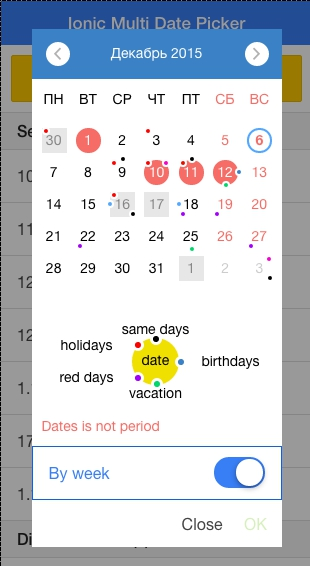
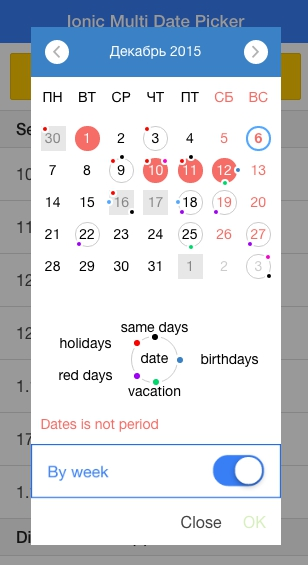
v1.2.6

diff --git a/dist/ionic-multi-date-picker.bundle.min.js b/dist/ionic-multi-date-picker.bundle.min.js
@@ -12,7 +12,7 @@
             styleEl.innerText = cssText;
         }
     }
-}(document, ".cal-color-red:before{background-color:#f66d67}.cal-color-yellow:before{background-color:#f6e800}.cal-color-orange:before{background-color:#f68200}.cal-color-violet:before{background-color:#f600c7}.cal-color-saha:before{background-color:#9f00f6}.cal-color-coral:before{background-color:#ff8579}.cal-color-blue:before{background-color:#3a81c5}.cal-color-skyey:before{background-color:#53a7ff}.cal-color-green:before{background-color:#9bd659}.cal-color-ggreen:before{background-color:#00d66c}.cal-color-holiday:before{background-color:red}.cal-color-black:before{background-color:#000}.picker-body{height:inherit}.picker-body .popup-head{padding:0;border:0}.picker-body .popup-body{overflow:inherit!important;padding:0}.cal-green{color:#9bd659!important}.cal-green-bg{background-color:#9bd659;z-index:-2}.ionic-datepicker{background-color:#fff}.ionic-datepicker .no-padding{padding:0}.ionic-datepicker .clear{clear:both}.ionic-datepicker .title{color:#3a81c5}.ionic-datepicker .title h3{font-size:2em;text-align:center!important;margin:0;padding:10px;width:100%}.ionic-datepicker .title div{font-size:21px;text-align:center!important;margin:0;padding:5px;width:100%}.ionic-datepicker .navigator{background-color:#3a81c5;min-height:50px}.ionic-datepicker .icon-chevron{position:relative}.ionic-datepicker .icon-chevron:before{background-color:#fff;width:24px;height:24px;border-radius:50%;padding:5px 3px;position:absolute;top:-7px;z-index:1}.ionic-datepicker .icon-chevron-left:before{left:2px}.ionic-datepicker .icon-chevron-right:before{left:-25px}.ionic-datepicker .month-year-selector{position:fixed;right:60px;top:0;left:60px;background-color:transparent;color:transparent;border-width:0;max-width:40%}.ionic-datepicker .month-year-selector input{color:transparent}.ionic-datepicker .calendar-grid{margin:0 auto;max-width:260px}.ionic-datepicker .week-days{text-transform:uppercase;text-align:center}.ionic-datepicker .weekend{color:#f66d67}.ionic-datepicker .calendar-1,.ionic-datepicker .calendar-2,.ionic-datepicker .calendar-3,.ionic-datepicker .calendar-4,.ionic-datepicker .calendar-5,.ionic-datepicker .calendar-6,.ionic-datepicker .calendar-7,.ionic-datepicker .holidays{position:absolute;top:0;left:0;color:transparent}.ionic-datepicker .calendar-1:before,.ionic-datepicker .calendar-2:before,.ionic-datepicker .calendar-3:before,.ionic-datepicker .calendar-4:before,.ionic-datepicker .calendar-5:before,.ionic-datepicker .calendar-6:before,.ionic-datepicker .calendar-7:before,.ionic-datepicker .holidays:before{position:absolute;content:'';z-index:0;width:8px;height:8px;border:2px solid #fff;border-radius:50%}.ionic-datepicker .holidays:before{top:3px;left:5px}.ionic-datepicker .calendar-1:before{top:-1px;left:14px}.ionic-datepicker .calendar-2:before{top:3px;left:23px}.ionic-datepicker .calendar-3:before{top:12px;left:27px}.ionic-datepicker .calendar-4:before{top:22px;left:24px}.ionic-datepicker .calendar-5:before{top:25px;left:14px}.ionic-datepicker .calendar-6:before{top:22px;left:5px}.ionic-datepicker .calendar-7:before{top:12px;left:1px}.ionic-datepicker .disabledDate{color:#868686!important}.ionic-datepicker .disabledDate:after{position:absolute;content:'';top:4px;left:5px;z-index:-1;width:25px;height:25px;background-color:#e7e7e7}.ionic-datepicker .not-cur-month{color:#ccc}.ionic-datepicker .today{font-weight:bolder}.ionic-datepicker .today:after{content:'';position:absolute;top:4px;left:5px;z-index:-1;width:25px;height:25px;border-radius:50%;border:2px solid #53a7ff}.ionic-datepicker .selected,.ionic-datepicker .selected-light{color:#fff!important}.ionic-datepicker .selected-light:after,.ionic-datepicker .selected:after{content:'';position:absolute;top:4px;left:5px;z-index:-1;width:25px;height:25px;border-radius:50%}.ionic-datepicker .selected:after{background-color:#f66d67}.ionic-datepicker .selected-light:after{background-color:#ff8579}.ionic-datepicker .date-grid{height:200px}.ionic-datepicker .date-grid .date-row{text-align:center}.ionic-datepicker .date-grid .date-row .date-col{position:relative;z-index:1;width:44px}.ionic-datepicker .date-grid .date-row .date-col:active,.ionic-datepicker .date-grid .date-row .date-col:hover{cursor:pointer}.ionic-datepicker .date-grid .date-row .date-col .date-cell{padding:5px;margin:1px}.ionic-datepicker .calendar-names{position:relative;max-width:260px;height:87px;margin:0 auto}.ionic-datepicker .calendar-names .calendars-point{position:absolute;left:110px;top:31px;z-index:1}.ionic-datepicker .calendar-names .calendars-point:before{position:absolute;content:'';left:-10px;top:-12px;width:47px;height:47px;background-color:#f0e000;border-radius:50%;z-index:-1}.ionic-datepicker .calendar-names .calendar-1-name,.ionic-datepicker .calendar-names .calendar-2-name,.ionic-datepicker .calendar-names .calendar-3-name,.ionic-datepicker .calendar-names .calendar-4-name,.ionic-datepicker .calendar-names .calendar-5-name,.ionic-datepicker .calendar-names .calendar-6-name,.ionic-datepicker .calendar-names .calendar-7-name,.ionic-datepicker .calendar-names .holiday-name{position:absolute;width:40%;text-align:center}.ionic-datepicker .calendar-names .holiday-name{top:16px;left:5px}.ionic-datepicker .calendar-names .calendar-1-name{top:0;left:74px}.ionic-datepicker .calendar-names .calendar-2-name{top:16px;left:144px}.ionic-datepicker .calendar-names .calendar-3-name{top:32px;left:149px}.ionic-datepicker .calendar-names .calendar-4-name{top:48px;left:144px}.ionic-datepicker .calendar-names .calendar-5-name{top:64px;left:74px}.ionic-datepicker .calendar-names .calendar-6-name{top:48px;left:5px}.ionic-datepicker .calendar-names .calendar-7-name{top:32px;left:0}.ionic-datepicker .calendar-names .calendar-1-point,.ionic-datepicker .calendar-names .calendar-2-point,.ionic-datepicker .calendar-names .calendar-3-point,.ionic-datepicker .calendar-names .calendar-4-point,.ionic-datepicker .calendar-names .calendar-5-point,.ionic-datepicker .calendar-names .calendar-6-point,.ionic-datepicker .calendar-names .calendar-7-point,.ionic-datepicker .calendar-names .holiday-point{position:absolute;color:transparent}.ionic-datepicker .calendar-names .calendar-1-point:before,.ionic-datepicker .calendar-names .calendar-2-point:before,.ionic-datepicker .calendar-names .calendar-3-point:before,.ionic-datepicker .calendar-names .calendar-4-point:before,.ionic-datepicker .calendar-names .calendar-5-point:before,.ionic-datepicker .calendar-names .calendar-6-point:before,.ionic-datepicker .calendar-names .calendar-7-point:before,.ionic-datepicker .calendar-names .holiday-point:before{position:absolute;content:'';width:12px;height:12px;border:3px solid #fff;border-radius:50%;z-index:2}.ionic-datepicker .calendar-names .holiday-point{top:20px;left:100px}.ionic-datepicker .calendar-names .calendar-1-point{top:14px;left:118px}.ionic-datepicker .calendar-names .calendar-2-point:before{top:20px;left:136px}.ionic-datepicker .calendar-names .calendar-3-point:before{top:37px;left:143px}.ionic-datepicker .calendar-names .calendar-4-point:before{top:53px;left:136px}.ionic-datepicker .calendar-names .calendar-5-point:before{top:59px;left:119px}.ionic-datepicker .calendar-names .calendar-6-point:before{top:53px;left:100px}.ionic-datepicker .calendar-names .calendar-7-point:before{top:37px;left:93px}.ionic-datepicker .errors{max-width:260px;padding:10px;margin:0 auto;color:#f66d67}.ionic-datepicker .tgl-period div{margin:0}.ionic-datepicker .view-month{color:#fff;padding:14px}.ionic-datepicker .pointer_events_none{pointer-events:none!important}.ionic-datepicker .select_section{padding:0}.ionic-datepicker .select_section label{padding:12px}.ionic-datepicker .select_section select{font-size:12px;font-weight:700;padding:2px 10px;direction:ltr;left:0;width:100%;max-width:100%}.ionic-datepicker .select_section .item-select:after{right:4px;border-top:4px solid;border-right:4px solid #000;border-left:4px solid #000}.ionic-datepicker .left-arrow{direction:rtl}.ionic-datepicker .font_22px{font-size:22px}.ionic-datepicker .btns-right-popup{float:right}.ionic-datepicker .btns-right-modal{direction:rtl}.ionic_datepicker_modal_content{padding-top:10%}.ionic_datepicker_modal_content .ionic-datepicker .selected_date_full{font-size:20px;padding:20px}.ionic_datepicker_modal_content .cal-button{padding:0!important;font-size:14px!important}@media (min-width:680px){.ionic_datepicker_modal_content{padding-top:0}.ionic_datepicker_modal_content .ionic-datepicker .selected_date_full{font-size:inherit;padding:10px 0 0}}"));
+}(document, ".cal-color-red:before{background-color:#f66d67}.cal-color-yellow:before{background-color:#f6e800}.cal-color-orange:before{background-color:#f68200}.cal-color-violet:before{background-color:#f600c7}.cal-color-saha:before{background-color:#9f00f6}.cal-color-coral:before{background-color:#ff8579}.cal-color-blue:before{background-color:#3a81c5}.cal-color-skyey:before{background-color:#53a7ff}.cal-color-green:before{background-color:#9bd659}.cal-color-ggreen:before{background-color:#00d66c}.cal-color-holiday:before{background-color:red}.cal-color-black:before{background-color:#000}.picker-body{height:inherit}.picker-body .popup-head{padding:0;border:0}.picker-body .popup-body{overflow:inherit!important;padding:0}.cal-green{color:#9bd659!important}.cal-green-bg{background-color:#9bd659;z-index:-2}.ionic-datepicker{background-color:#fff}.ionic-datepicker .no-padding{padding:0}.ionic-datepicker .clear{clear:both}.ionic-datepicker .title{color:#3a81c5}.ionic-datepicker .title h3{font-size:2em;text-align:center!important;margin:0;padding:10px;width:100%}.ionic-datepicker .title div{font-size:21px;text-align:center!important;margin:0;padding:5px;width:100%}.ionic-datepicker .navigator{background-color:#3a81c5;min-height:50px}.ionic-datepicker .icon-chevron{position:relative}.ionic-datepicker .icon-chevron:before{background-color:#fff;width:24px;height:24px;border-radius:50%;padding:5px 3px;position:absolute;top:-7px;z-index:1}.ionic-datepicker .icon-chevron-left:before{left:2px}.ionic-datepicker .icon-chevron-right:before{left:-25px}.ionic-datepicker .month-year-selector{position:fixed;right:60px;top:0;left:60px;background-color:transparent;color:transparent;border-width:0;max-width:40%}.ionic-datepicker .month-year-selector input{color:transparent}.ionic-datepicker .calendar-grid{margin:0 auto;max-width:260px}.ionic-datepicker .week-days{text-transform:uppercase;text-align:center}.ionic-datepicker .weekend{color:#f66d67}.ionic-datepicker .calendar-1,.ionic-datepicker .calendar-2,.ionic-datepicker .calendar-3,.ionic-datepicker .calendar-4,.ionic-datepicker .calendar-5,.ionic-datepicker .calendar-6,.ionic-datepicker .calendar-7,.ionic-datepicker .holidays{position:absolute;top:0;left:0;color:transparent}.ionic-datepicker .calendar-1:before,.ionic-datepicker .calendar-2:before,.ionic-datepicker .calendar-3:before,.ionic-datepicker .calendar-4:before,.ionic-datepicker .calendar-5:before,.ionic-datepicker .calendar-6:before,.ionic-datepicker .calendar-7:before,.ionic-datepicker .holidays:before{position:absolute;content:'';z-index:0;width:8px;height:8px;border:2px solid #fff;border-radius:50%}.ionic-datepicker .holidays:before{top:3px;left:5px}.ionic-datepicker .calendar-1:before{top:-1px;left:14px}.ionic-datepicker .calendar-2:before{top:3px;left:23px}.ionic-datepicker .calendar-3:before{top:12px;left:27px}.ionic-datepicker .calendar-4:before{top:22px;left:24px}.ionic-datepicker .calendar-5:before{top:25px;left:14px}.ionic-datepicker .calendar-6:before{top:22px;left:5px}.ionic-datepicker .calendar-7:before{top:12px;left:1px}.ionic-datepicker .disabledDate{color:#868686!important}.ionic-datepicker .disabledDate:after{position:absolute;content:'';top:4px;left:5px;z-index:-1;width:25px;height:25px;background-color:#e7e7e7}.ionic-datepicker .not-cur-month{color:#ccc}.ionic-datepicker .today{font-weight:bolder}.ionic-datepicker .today:after{content:'';position:absolute;top:4px;left:5px;z-index:-1;width:25px;height:25px;border-radius:50%;border:2px solid #53a7ff}.ionic-datepicker .not-empty:after{content:'';position:absolute;top:4px;left:5px;z-index:-1;width:25px;height:25px;border-radius:50%;border:1px solid #ccc}.ionic-datepicker .selected,.ionic-datepicker .selected-light{color:#fff!important}.ionic-datepicker .selected-light:after,.ionic-datepicker .selected:after{content:'';position:absolute;top:4px;left:5px;z-index:-1;width:25px;height:25px;border-radius:50%}.ionic-datepicker .selected:after{background-color:#f66d67}.ionic-datepicker .selected-light:after{background-color:#ff8579}.ionic-datepicker .date-grid{height:200px}.ionic-datepicker .date-grid .date-row{text-align:center}.ionic-datepicker .date-grid .date-row .date-col{position:relative;z-index:1;width:44px}.ionic-datepicker .date-grid .date-row .date-col:active,.ionic-datepicker .date-grid .date-row .date-col:hover{cursor:pointer}.ionic-datepicker .date-grid .date-row .date-col .date-cell{padding:5px;margin:1px}.ionic-datepicker .calendar-names{position:relative;max-width:260px;height:87px;margin:0 auto}.ionic-datepicker .calendar-names .calendars-point{position:absolute;left:110px;top:31px;z-index:1}.ionic-datepicker .calendar-names .calendars-point:before{position:absolute;content:'';left:-10px;top:-12px;width:47px;height:47px;border:1px solid #ccc;border-radius:50%;z-index:-1}.ionic-datepicker .calendar-names .calendar-1-name,.ionic-datepicker .calendar-names .calendar-2-name,.ionic-datepicker .calendar-names .calendar-3-name,.ionic-datepicker .calendar-names .calendar-4-name,.ionic-datepicker .calendar-names .calendar-5-name,.ionic-datepicker .calendar-names .calendar-6-name,.ionic-datepicker .calendar-names .calendar-7-name,.ionic-datepicker .calendar-names .holiday-name{position:absolute;width:40%;text-align:center}.ionic-datepicker .calendar-names .holiday-name{top:16px;left:5px}.ionic-datepicker .calendar-names .calendar-1-name{top:0;left:74px}.ionic-datepicker .calendar-names .calendar-2-name{top:16px;left:144px}.ionic-datepicker .calendar-names .calendar-3-name{top:32px;left:149px}.ionic-datepicker .calendar-names .calendar-4-name{top:48px;left:144px}.ionic-datepicker .calendar-names .calendar-5-name{top:64px;left:74px}.ionic-datepicker .calendar-names .calendar-6-name{top:48px;left:5px}.ionic-datepicker .calendar-names .calendar-7-name{top:32px;left:0}.ionic-datepicker .calendar-names .calendar-1-point,.ionic-datepicker .calendar-names .calendar-2-point,.ionic-datepicker .calendar-names .calendar-3-point,.ionic-datepicker .calendar-names .calendar-4-point,.ionic-datepicker .calendar-names .calendar-5-point,.ionic-datepicker .calendar-names .calendar-6-point,.ionic-datepicker .calendar-names .calendar-7-point,.ionic-datepicker .calendar-names .holiday-point{position:absolute;color:transparent}.ionic-datepicker .calendar-names .calendar-1-point:before,.ionic-datepicker .calendar-names .calendar-2-point:before,.ionic-datepicker .calendar-names .calendar-3-point:before,.ionic-datepicker .calendar-names .calendar-4-point:before,.ionic-datepicker .calendar-names .calendar-5-point:before,.ionic-datepicker .calendar-names .calendar-6-point:before,.ionic-datepicker .calendar-names .calendar-7-point:before,.ionic-datepicker .calendar-names .holiday-point:before{position:absolute;content:'';width:12px;height:12px;border:3px solid #fff;border-radius:50%;z-index:2}.ionic-datepicker .calendar-names .holiday-point{top:20px;left:100px}.ionic-datepicker .calendar-names .calendar-1-point{top:14px;left:118px}.ionic-datepicker .calendar-names .calendar-2-point:before{top:20px;left:136px}.ionic-datepicker .calendar-names .calendar-3-point:before{top:37px;left:143px}.ionic-datepicker .calendar-names .calendar-4-point:before{top:53px;left:136px}.ionic-datepicker .calendar-names .calendar-5-point:before{top:59px;left:119px}.ionic-datepicker .calendar-names .calendar-6-point:before{top:53px;left:100px}.ionic-datepicker .calendar-names .calendar-7-point:before{top:37px;left:93px}.ionic-datepicker .errors{max-width:260px;padding:10px;margin:0 auto;color:#f66d67}.ionic-datepicker .tgl-period div{margin:0}.ionic-datepicker .view-month{color:#fff;padding:14px}.ionic-datepicker .pointer_events_none{pointer-events:none!important}.ionic-datepicker .select_section{padding:0}.ionic-datepicker .select_section label{padding:12px}.ionic-datepicker .select_section select{font-size:12px;font-weight:700;padding:2px 10px;direction:ltr;left:0;width:100%;max-width:100%}.ionic-datepicker .select_section .item-select:after{right:4px;border-top:4px solid;border-right:4px solid #000;border-left:4px solid #000}.ionic-datepicker .left-arrow{direction:rtl}.ionic-datepicker .font_22px{font-size:22px}.ionic-datepicker .btns-right-popup{float:right}.ionic-datepicker .btns-right-modal{direction:rtl}.ionic_datepicker_modal_content{padding-top:10%}.ionic_datepicker_modal_content .ionic-datepicker .selected_date_full{font-size:20px;padding:20px}.ionic_datepicker_modal_content .cal-button{padding:0!important;font-size:14px!important}@media (min-width:680px){.ionic_datepicker_modal_content{padding-top:0}.ionic_datepicker_modal_content .ionic-datepicker .selected_date_full{font-size:inherit;padding:10px 0 0}}"));
 
 (function(module) {
 try {
@@ -58,7 +58,7 @@ try {
 }
 module.run(['$templateCache', function($templateCache) {
   $templateCache.put('template-body.html',
-    '<div class="navigator row no-padding"><div class="col col-10 left-arrow" ng-click=prevMonth()><button class=button-clear><i class="icon icon-chevron icon-chevron-left ion-chevron-left"></i></button></div><div class="col col-80 view-month text-center">{{ monthsList[viewMonth] }} {{ viewYear }}</div><div class="col col-10" ng-click=nextMonth()><button class=button-clear><i class="icon icon-chevron icon-chevron-right ion-chevron-right"></i></button></div></div><label class="month-year-selector item item-input"><input type=month ng-model=monthYear.select ng-change=monthYearSelect()></label><div class=calendar-grid><div class=row><div class="col week-days" ng-class="{\'weekend\': ($index == 5 || $index == 6)}" ng-repeat="weekName in weekNames track by $index" ng-bind=weekName></div></div><div class=date-grid><div class="row date-row" ng-repeat="row in rows track by $index"><div class="col no-padding date-col" ng-repeat="col in cols track by $index" ng-class="{\'selected\': (dayList[row + $index].style.isSelected && accessType == \'WRITE\') , \'selected-light\': (dayList[row + $index].style.isSelected && accessType == \'READ\') , \'today\' : (dayList[row + $index].style.isToday) , \'weekend\': ((dayList[row + $index].day == 6 || dayList[row + $index].day == 0) && viewMonth == dayList[row + $index].month) , \'disabledDate\': (dayList[row + $index].style.isDisabled) , \'not-cur-month\': (!dayList[row + $index].style.isViewMonth)}"><div class=date-cell ng-click="dateSelected(dayList[row + $index], row)">{{ dayList[row + col].date }}</div><div class="holidays ng-hide" ng-class=holidaysClass ng-show="dayList[row + $index].style.isHoliday"></div><div class="calendar-1 ng-hide" ng-class=calendar1Class ng-show="dayList[row + $index].style.isCalendar1"></div><div class="calendar-2 ng-hide" ng-class=calendar2Class ng-show="dayList[row + $index].style.isCalendar2"></div><div class="calendar-3 ng-hide" ng-class=calendar3Class ng-show="dayList[row + $index].style.isCalendar3"></div><div class="calendar-4 ng-hide" ng-class=calendar4Class ng-show="dayList[row + $index].style.isCalendar4"></div><div class="calendar-5 ng-hide" ng-class=calendar5Class ng-show="dayList[row + $index].style.isCalendar5"></div><div class="calendar-6 ng-hide" ng-class=calendar6Class ng-show="dayList[row + $index].style.isCalendar6"></div><div class="calendar-7 ng-hide" ng-class=calendar7Class ng-show="dayList[row + $index].style.isCalendar7"></div></div></div></div></div><div class="calendar-names ng-hide" ng-show="namesCount > 0"><div class=calendars-point>date</div><div class="holiday-point ng-hide" ng-show="calendarNames[0].name.length > 0" ng-class=calendarNames[0].class>.</div><div class="calendar-1-point ng-hide" ng-show="calendarNames[1].name.length > 0" ng-class=calendarNames[1].class>.</div><div class="calendar-2-point ng-hide" ng-show="calendarNames[2].name.length > 0" ng-class=calendarNames[2].class>.</div><div class="calendar-3-point ng-hide" ng-show="calendarNames[3].name.length > 0" ng-class=calendarNames[3].class>.</div><div class="calendar-4-point ng-hide" ng-show="calendarNames[4].name.length > 0" ng-class=calendarNames[4].class>.</div><div class="calendar-5-point ng-hide" ng-show="calendarNames[5].name.length > 0" ng-class=calendarNames[5].class>.</div><div class="calendar-6-point ng-hide" ng-show="calendarNames[6].name.length > 0" ng-class=calendarNames[6].class>.</div><div class="calendar-7-point ng-hide" ng-show="calendarNames[7].name.length > 0" ng-class=calendarNames[7].class>.</div><div class=holiday-name>{{ calendarNames[0].name }}</div><div class=calendar-1-name>{{ calendarNames[1].name }}</div><div class=calendar-2-name>{{ calendarNames[2].name }}</div><div class=calendar-3-name>{{ calendarNames[3].name }}</div><div class=calendar-4-name>{{ calendarNames[4].name }}</div><div class=calendar-5-name>{{ calendarNames[5].name }}</div><div class=calendar-6-name>{{ calendarNames[6].name }}</div><div class=calendar-7-name>{{ calendarNames[7].name }}</div></div><div class=errors><div ng-repeat="error in errors">{{ error[errorLanguage] }}</div></div><div class="tgl-period ng-hide" ng-show="tglSelectByWeekShow && accessType == \'WRITE\' && selectType != \'SINGLE\'"><div class="item item-toggle" ng-class=titleSelectByWeekClass>{{ tglSelectByWeek }} <label class=toggle ng-class=tglSelectByWeekClass><input type=checkbox ng-model=selectByWeek.is><div class=track><div class=handle></div></div></label></div></div>');
+    '<div class="navigator row no-padding"><div class="col col-10 left-arrow" ng-click=prevMonth()><button class=button-clear><i class="icon icon-chevron icon-chevron-left ion-chevron-left"></i></button></div><div class="col col-80 view-month text-center">{{ monthsList[viewMonth] }} {{ viewYear }}</div><div class="col col-10" ng-click=nextMonth()><button class=button-clear><i class="icon icon-chevron icon-chevron-right ion-chevron-right"></i></button></div></div><label class="month-year-selector item item-input"><input type=month ng-model=monthYear.select ng-change=monthYearSelect()></label><div class=calendar-grid><div class=row><div class="col week-days" ng-class="{\'weekend\': ($index == 5 || $index == 6)}" ng-repeat="weekName in weekNames track by $index" ng-bind=weekName></div></div><div class=date-grid><div class="row date-row" ng-repeat="row in rows track by $index"><div class="col no-padding date-col" ng-repeat="col in cols track by $index" ng-class="{\'selected\': (dayList[row + $index].style.isSelected && accessType == \'WRITE\') , \'selected-light\': (dayList[row + $index].style.isSelected && accessType == \'READ\') , \'today\' : (dayList[row + $index].style.isToday) , \'weekend\': ((dayList[row + $index].day == 6 || dayList[row + $index].day == 0) && viewMonth == dayList[row + $index].month) , \'disabledDate\': (dayList[row + $index].style.isDisabled) , \'not-empty\': !(dayList[row + $index].style.isToday || dayList[row + $index].style.isSelected || dayList[row + $index].style.isDisabled) && (dayList[row + $index].style.isHoliday || dayList[row + $index].style.isCalendar1 || dayList[row + $index].style.isCalendar2 || dayList[row + $index].style.isCalendar3 || dayList[row + $index].style.isCalendar4 || dayList[row + $index].style.isCalendar5 || dayList[row + $index].style.isCalendar6 || dayList[row + $index].style.isCalendar7) , \'not-cur-month\': (!dayList[row + $index].style.isViewMonth)}"><div class=date-cell ng-click="dateSelected(dayList[row + $index], row)">{{ dayList[row + col].date }}</div><div class="holidays ng-hide" ng-class=holidaysClass ng-show="dayList[row + $index].style.isHoliday"></div><div class="calendar-1 ng-hide" ng-class=calendar1Class ng-show="dayList[row + $index].style.isCalendar1"></div><div class="calendar-2 ng-hide" ng-class=calendar2Class ng-show="dayList[row + $index].style.isCalendar2"></div><div class="calendar-3 ng-hide" ng-class=calendar3Class ng-show="dayList[row + $index].style.isCalendar3"></div><div class="calendar-4 ng-hide" ng-class=calendar4Class ng-show="dayList[row + $index].style.isCalendar4"></div><div class="calendar-5 ng-hide" ng-class=calendar5Class ng-show="dayList[row + $index].style.isCalendar5"></div><div class="calendar-6 ng-hide" ng-class=calendar6Class ng-show="dayList[row + $index].style.isCalendar6"></div><div class="calendar-7 ng-hide" ng-class=calendar7Class ng-show="dayList[row + $index].style.isCalendar7"></div></div></div></div></div><div class="calendar-names ng-hide" ng-show="namesCount > 0"><div class=calendars-point>date</div><div class="holiday-point ng-hide" ng-show="calendarNames[0].name.length > 0" ng-class=calendarNames[0].class>.</div><div class="calendar-1-point ng-hide" ng-show="calendarNames[1].name.length > 0" ng-class=calendarNames[1].class>.</div><div class="calendar-2-point ng-hide" ng-show="calendarNames[2].name.length > 0" ng-class=calendarNames[2].class>.</div><div class="calendar-3-point ng-hide" ng-show="calendarNames[3].name.length > 0" ng-class=calendarNames[3].class>.</div><div class="calendar-4-point ng-hide" ng-show="calendarNames[4].name.length > 0" ng-class=calendarNames[4].class>.</div><div class="calendar-5-point ng-hide" ng-show="calendarNames[5].name.length > 0" ng-class=calendarNames[5].class>.</div><div class="calendar-6-point ng-hide" ng-show="calendarNames[6].name.length > 0" ng-class=calendarNames[6].class>.</div><div class="calendar-7-point ng-hide" ng-show="calendarNames[7].name.length > 0" ng-class=calendarNames[7].class>.</div><div class=holiday-name>{{ calendarNames[0].name }}</div><div class=calendar-1-name>{{ calendarNames[1].name }}</div><div class=calendar-2-name>{{ calendarNames[2].name }}</div><div class=calendar-3-name>{{ calendarNames[3].name }}</div><div class=calendar-4-name>{{ calendarNames[4].name }}</div><div class=calendar-5-name>{{ calendarNames[5].name }}</div><div class=calendar-6-name>{{ calendarNames[6].name }}</div><div class=calendar-7-name>{{ calendarNames[7].name }}</div></div><div class=errors><div ng-repeat="error in errors">{{ error[errorLanguage] }}</div></div><div class="tgl-period ng-hide" ng-show="tglSelectByWeekShow && accessType == \'WRITE\' && selectType != \'SINGLE\'"><div class="item item-toggle" ng-class=titleSelectByWeekClass>{{ tglSelectByWeek }} <label class=toggle ng-class=tglSelectByWeekClass><input type=checkbox ng-model=selectByWeek.is><div class=track><div class=handle></div></div></label></div></div>');
 }]);
 })();
 

diff --git a/src/template-body.html b/src/template-body.html
@@ -36,6 +36,9 @@
               , 'today' : (dayList[row + $index].style.isToday)
               , 'weekend': ((dayList[row + $index].day == 6 || dayList[row + $index].day == 0) && viewMonth == dayList[row + $index].month)
               , 'disabledDate': (dayList[row + $index].style.isDisabled)
+
+              , 'not-empty': !(dayList[row + $index].style.isToday || dayList[row + $index].style.isSelected || dayList[row + $index].style.isDisabled) && (dayList[row + $index].style.isHoliday || dayList[row + $index].style.isCalendar1 || dayList[row + $index].style.isCalendar2 || dayList[row + $index].style.isCalendar3 || dayList[row + $index].style.isCalendar4 || dayList[row + $index].style.isCalendar5 || dayList[row + $index].style.isCalendar6 || dayList[row + $index].style.isCalendar7)
+
               , 'not-cur-month': (!dayList[row + $index].style.isViewMonth)}">
         <div class="date-cell"
              ng-click="dateSelected(dayList[row + $index], row)">

diff --git a/src/ionic-multi-date-picker.scss b/src/ionic-multi-date-picker.scss
@@ -320,6 +320,18 @@ $CIRCLE-D: 25px;
       border: 2px solid $MDP-SKYEY;
     }
   }
+
+  .not-empty:after {
+    content: '';
+    position: absolute;
+    top: 4px;
+    left: 5px;
+    z-index: -1;
+    width: $CIRCLE-D;
+    height: $CIRCLE-D;
+    border-radius: 50%;
+    border: 1px solid $MDP-GRAY;}
+
   .selected, .selected-light {
     color: $MDP-WHITE !important;
     &:after {
@@ -367,6 +379,7 @@ $CIRCLE-D: 25px;
     }
   }
 
+  /* calendars names */
   .calendar-names {
     position: relative;
     max-width: 260px;
@@ -385,7 +398,7 @@ $CIRCLE-D: 25px;
         top: -12px;
         width: 47px;
         height: 47px;
-        background-color: #f0e000;
+        border: 1px solid $MDP-GRAY;
         border-radius: 50%;
         z-index: -1;
       }
@@ -478,9 +491,8 @@ $CIRCLE-D: 25px;
       top: 37px;
       left: 93px;
     }
-
-
   }
+
   /* errors */
   .errors {
     max-width: 260px;

diff --git a/README.md b/README.md
@@ -16,6 +16,7 @@ and fully rewrited.
 
 ![android modal](https://github.com/DenniLa2/ionic-datepicker/blob/master/images/imdp-android-2.jpg)
 ![android modal dateselector](https://github.com/DenniLa2/ionic-datepicker/blob/master/images/imdp-android.jpg)
+![calendar-convention section and "select by week" mode](https://github.com/DenniLa2/ionic-datepicker/blob/master/images/imdp-calendarNames.jpg)
 
 ##Video:
 [YouTube](https://youtu.be/RxW628a9U-M)
@@ -173,9 +174,9 @@ angular.module('mainModuleName', ['ionic', 'ionic-multi-date-picker']){
 
 **25. errorLanguage** - language of user errors. EN | RU. Default `EN`.
 
-**26. (new) fromDate: new Date(2015, 9),
+**26. (new) fromDate:** new Date(2015, 9),
 
-**27. (new) toDate: new Date(2016, 1),
+**27. (new) toDate:** new Date(2016, 1),
 
 **28. selectedDates** - array with javascript dates.
 
@@ -239,6 +240,8 @@ angular.module('mainModuleName', ['ionic', 'ionic-multi-date-picker']){
 1.2.4 - fix.
 
 1.2.5 - added 'fromDate' and 'toDate', holidaysClass, calendars names and calendar-convention section.
+
+1.2.6 - stylized.
 
 ##Contact:
 gmail : dennila2@gmail.com
